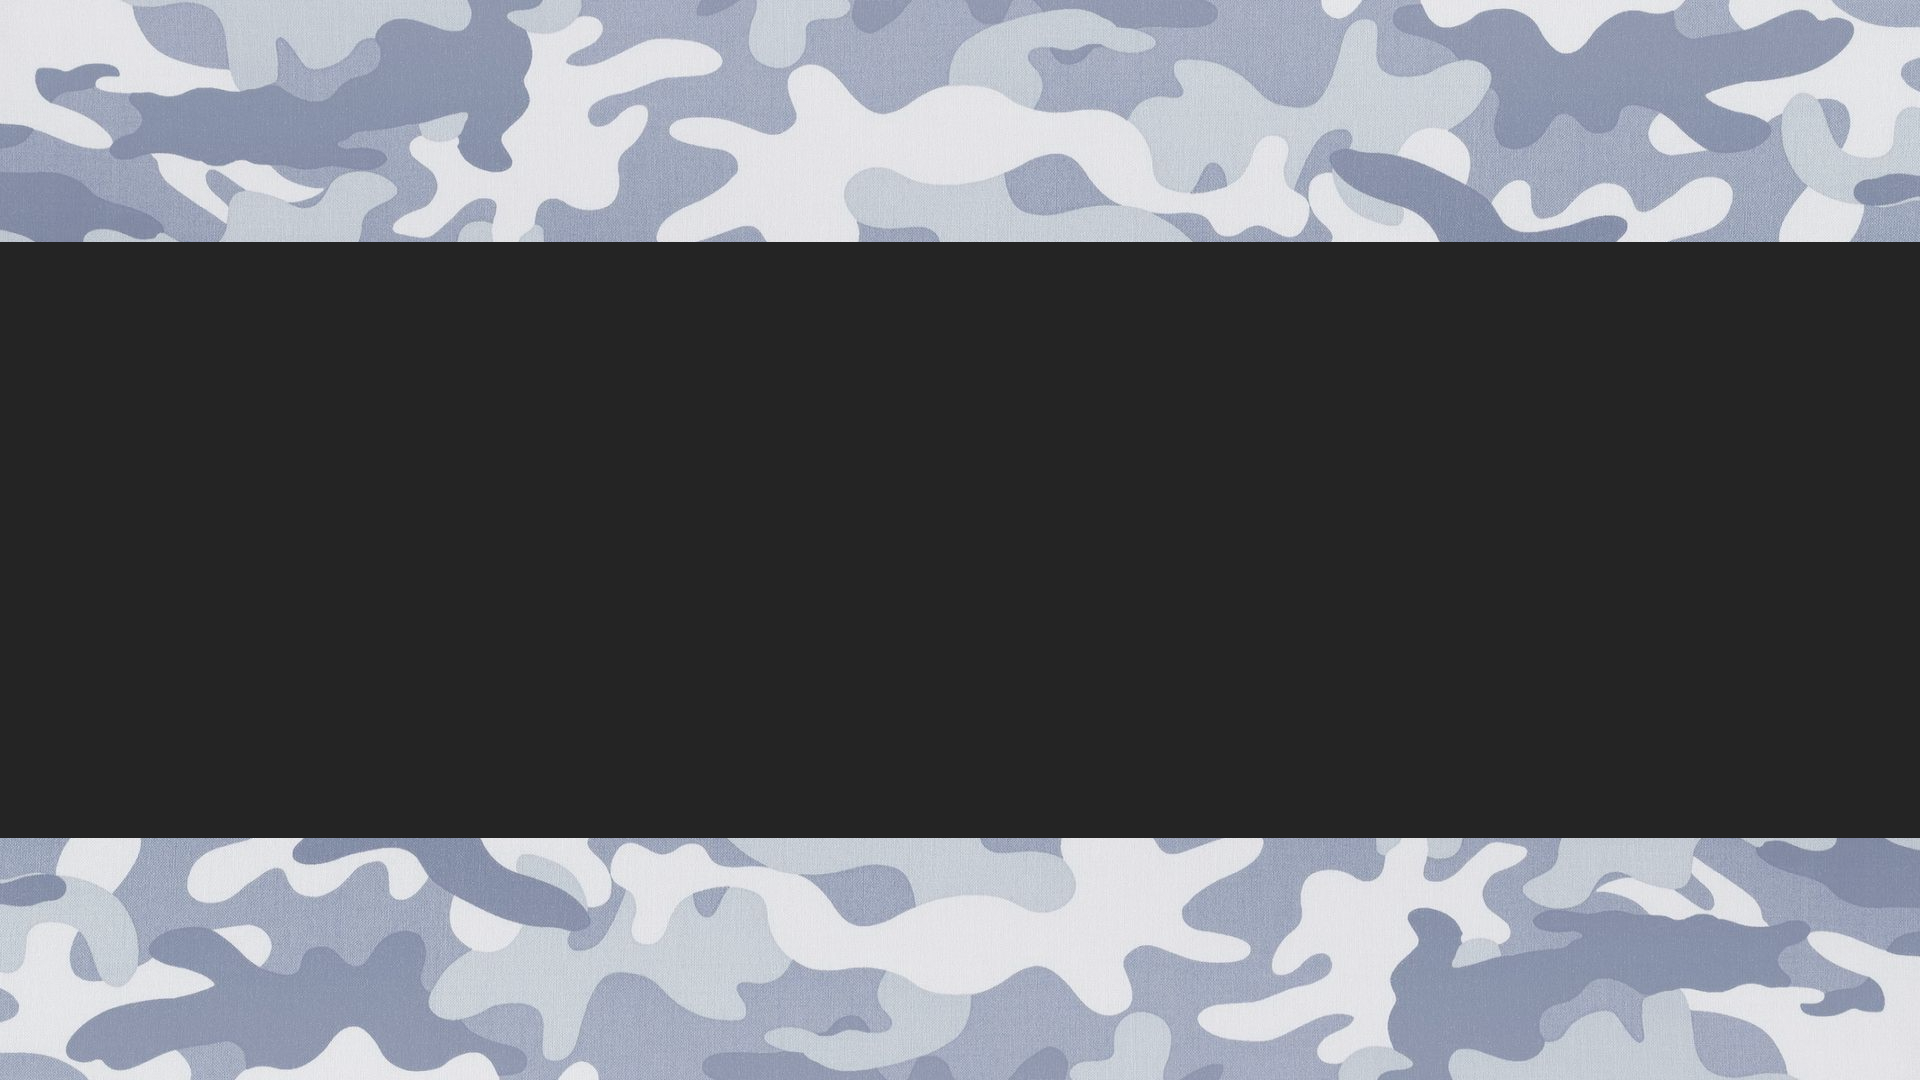
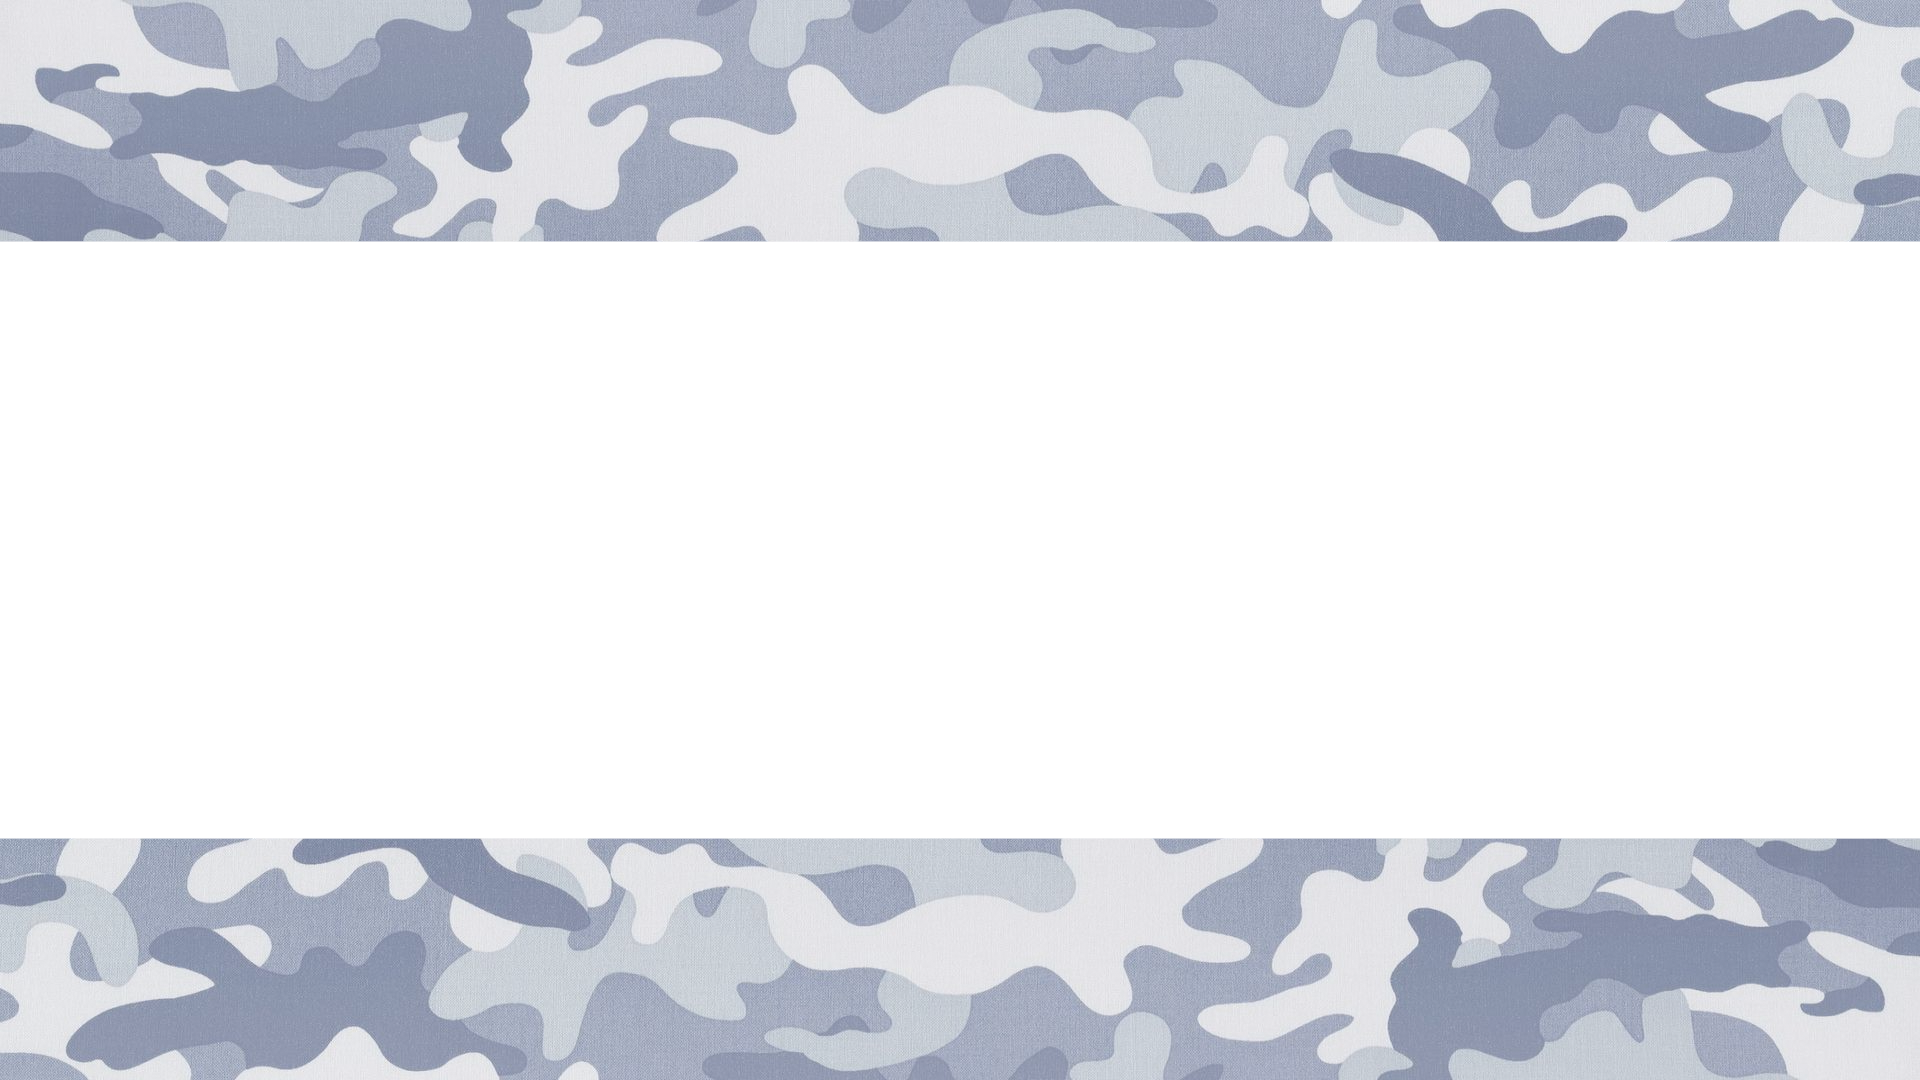
bg to white

diff --git a/app/assets/stylesheets/application.scss b/app/assets/stylesheets/application.scss
@@ -222,7 +222,7 @@
 
     .text {
       text-align: left;
-      color: #d87e08;
+      color: black;
     }
 
 
